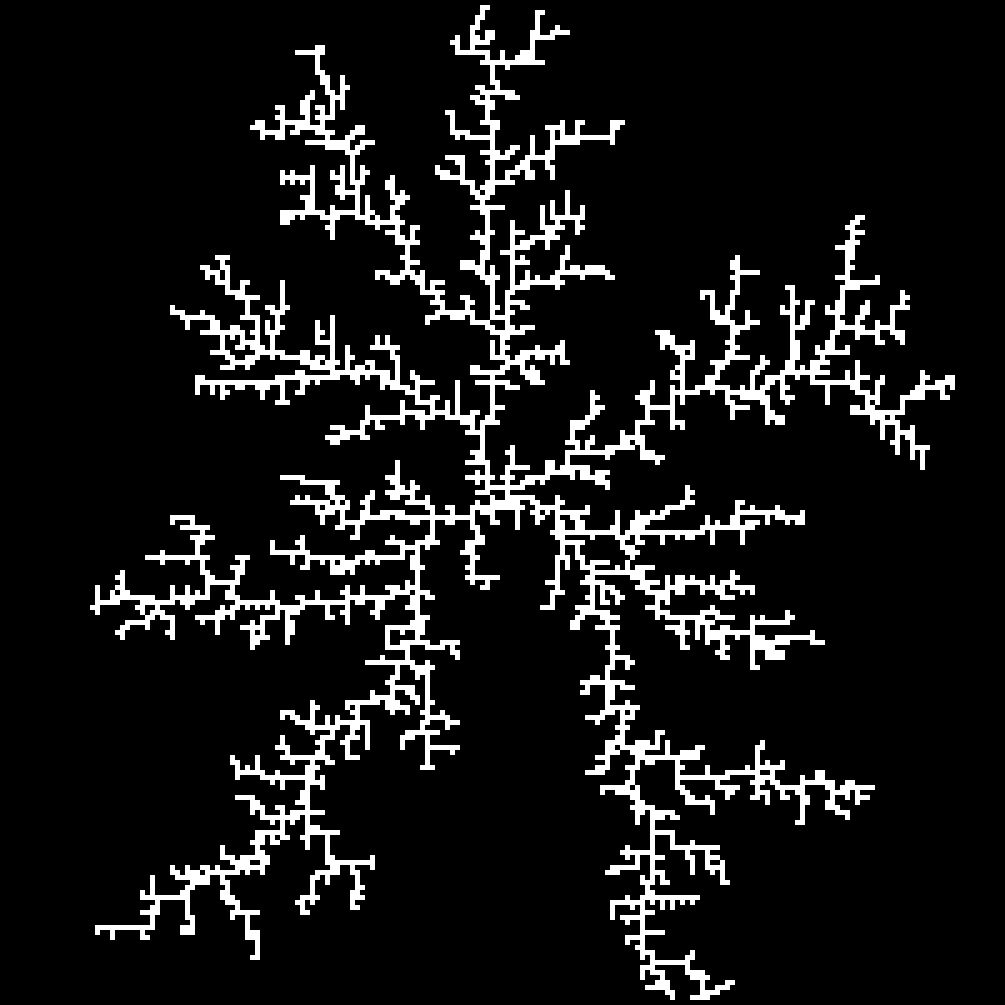
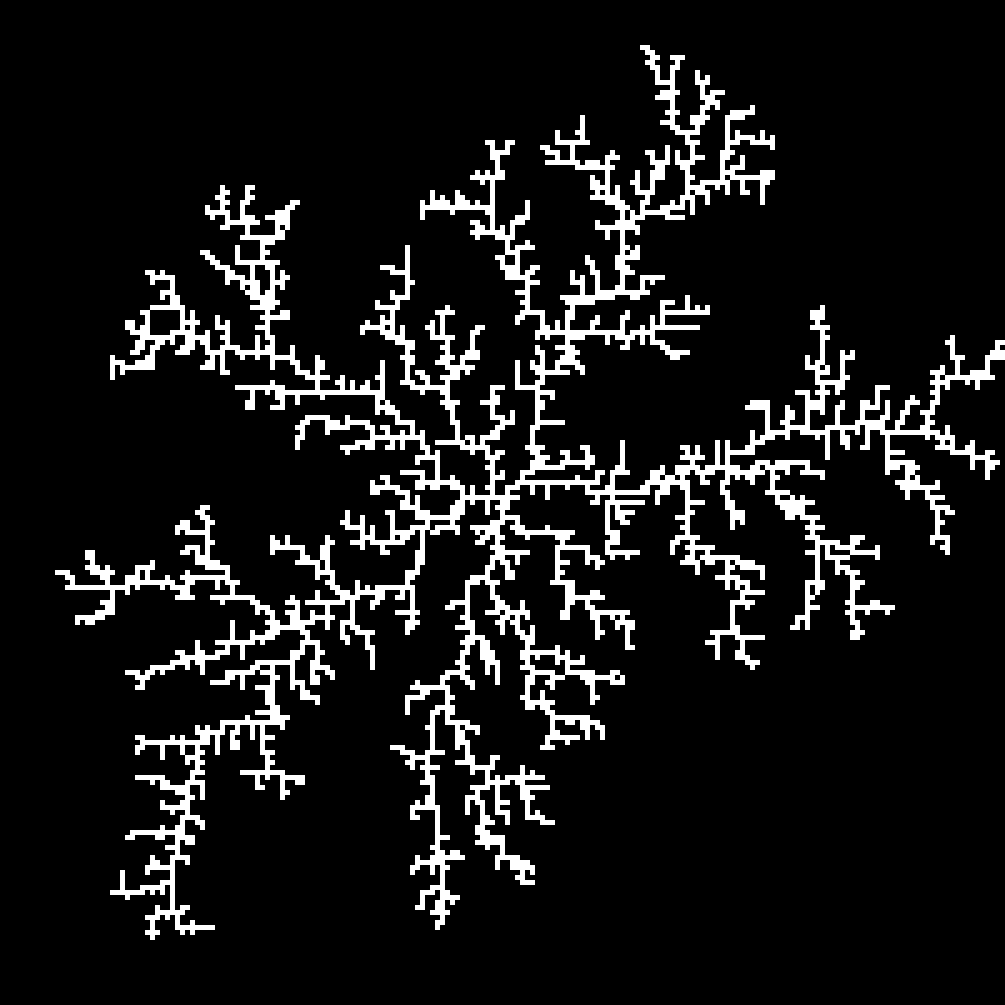
the heart doesnt work lol

diff --git a/DLA/dla.go b/DLA/dla.go
@@ -127,6 +127,58 @@ func gen_grid(size int) Grid {
 	return grid
 }
 
+// func heart_equation_derive(x, y float64) float64 {
+// 	return 3 * math.Pow(x * x + y * y - 1, 2)
+//
+// }
+
+func heart_equation(t float64) (float64, float64) {
+	y := 16 * math.Pow(math.Sin(t), 3)
+	x := 13*math.Sin(t) - 5*math.Sin(2*t) - 2*math.Sin(3*t) - math.Sin(4*t)
+
+	y /= 15
+	x /= 15
+
+	return x, y
+}
+
+func gen_heart_grid(size int, radius float64) Grid {
+
+	if int(radius) > size/2 {
+		panic(fmt.Errorf("ahhhhh: radius too large for grid size"))
+	}
+
+	grid := gen_grid(size)
+
+	mid := (size - 1) / 2
+	mid_point := Point{row: mid, col: mid}
+
+	points := 100
+
+	for i := range points {
+		t := float64(i) * 2 * math.Pi
+
+		x, y := heart_equation(t)
+		point := Point{row: int(math.Round(x * radius)), col: int(math.Round(y * radius))}
+
+		real_point := add_points(point, mid_point)
+
+		*grid.index(real_point) = Filled
+
+	}
+
+	return grid
+
+	// heart := [][]int {
+	// 	{0, 0, 1, 0, 0},
+	// 	{0, 1, 0, 1, 0},
+	// 	{1, 0, 0, 0, 1},
+	// 	{0, 1, 0, 1, 0},
+	// 	{0, 0, 1, 0, 0},
+	// }
+
+}
+
 func (g Grid) index(point Point) *SiteState {
 	return &g[point.row][point.col]
 }
@@ -193,14 +245,15 @@ func init_model(size int, p float64) Model {
 		panic("grid size must be odd you doofus")
 	}
 
-	mid := (size - 1) / 2
+	// mid := (size - 1) / 2
 
-	middle := Point{row: mid, col: mid}
+	// middle := Point{row: mid, col: mid}
 
-	grid := gen_grid(size)
+	// grid := gen_grid(size)
+	//
+	// *grid.index(middle) = 1
 
-	*grid.index(middle) = 1
-
+	grid := gen_heart_grid(size, 50)
 	// walkers := make([]Walker, 1)
 	// walkers[0] = Walker{
 	// 	location: middle,
